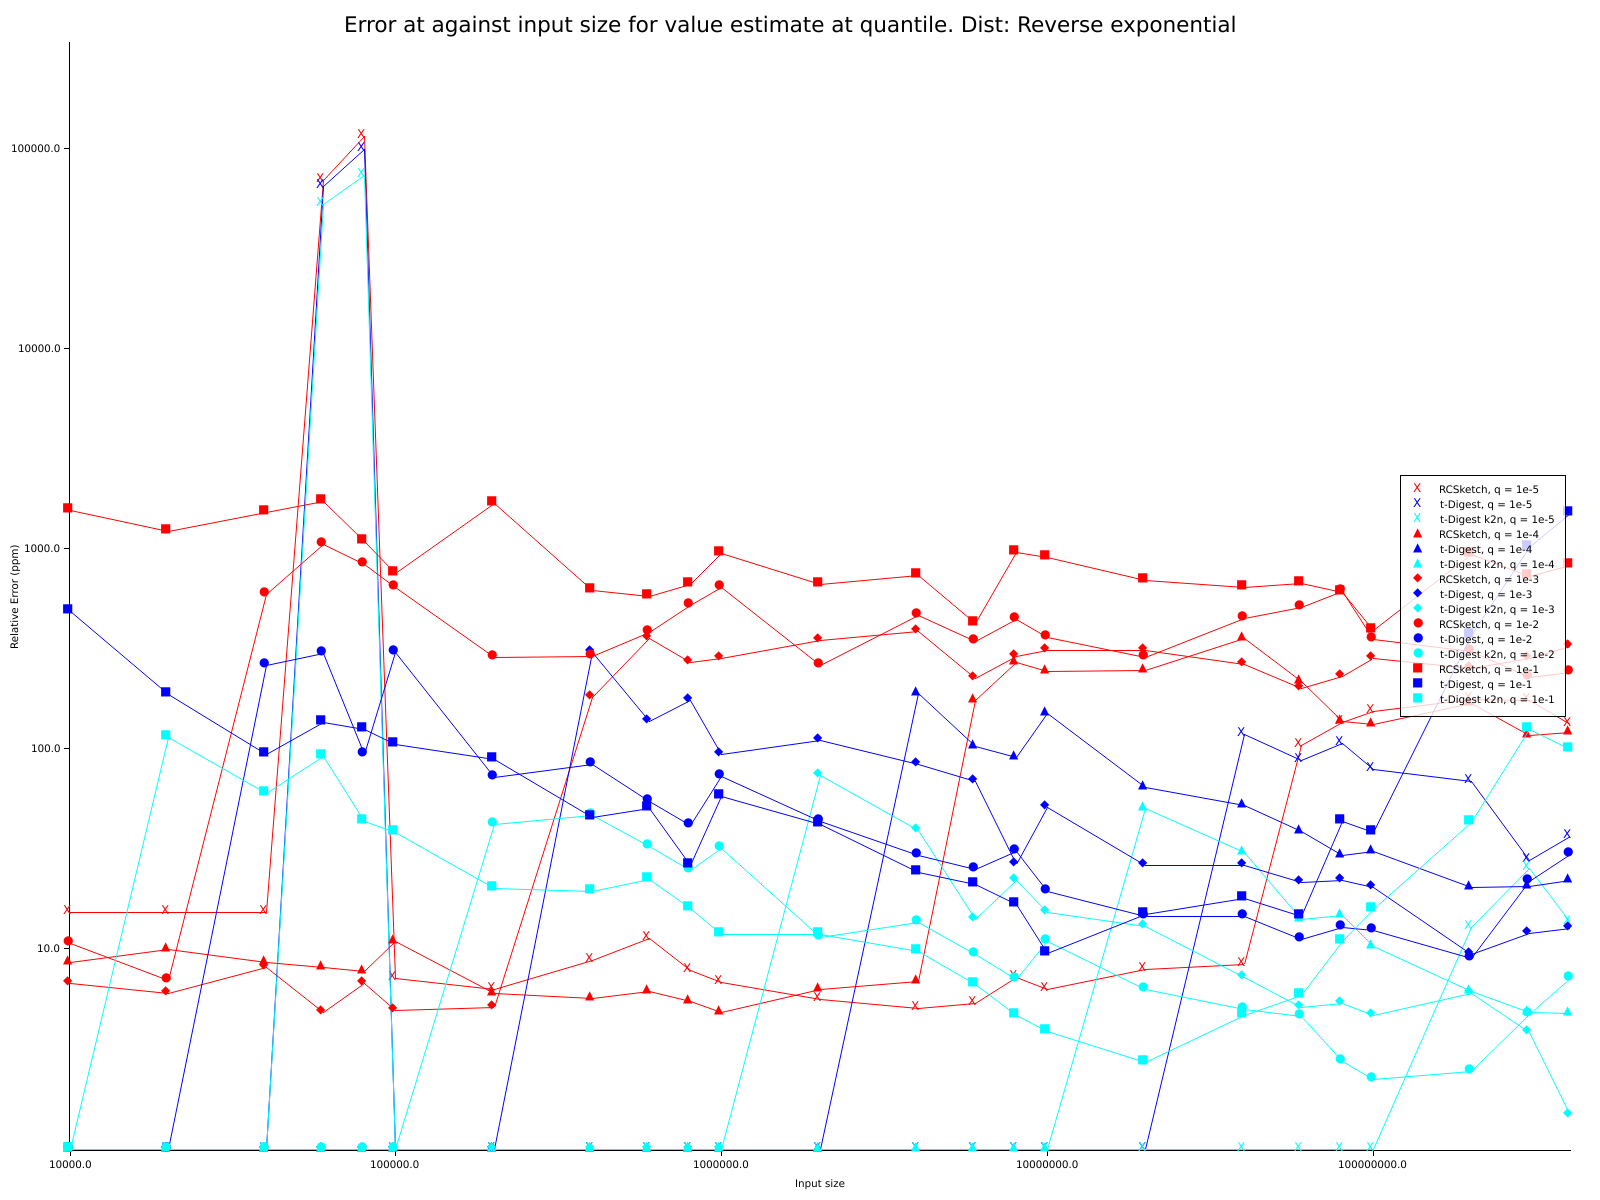
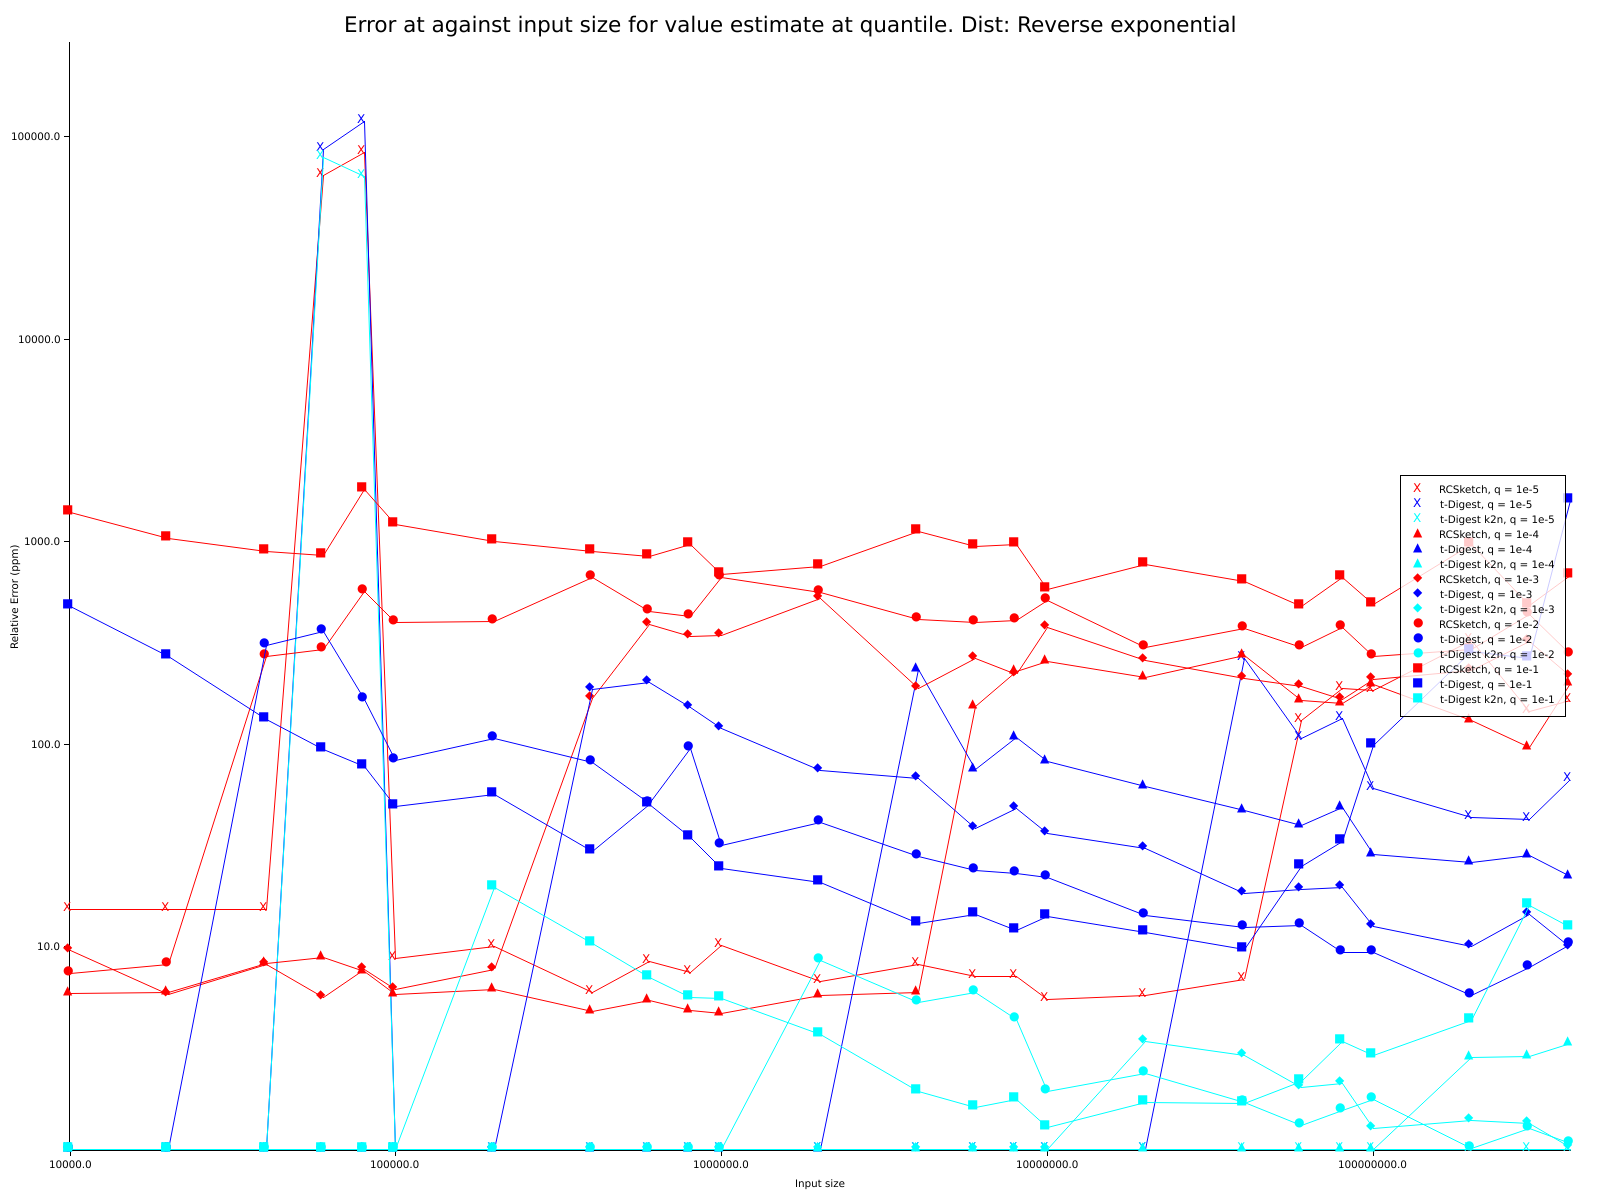
Test modified k2n

diff --git a/src/t_digest/scale_functions.rs b/src/t_digest/scale_functions.rs
@@ -55,7 +55,7 @@ pub fn k2n<F>(quantile: F, comp_factor: F, n: F) -> F
 where
     F: Float,
 {
-    let mod_comp_factor = comp_factor * n.log10();
+    let mod_comp_factor = comp_factor * n.log10().powf(F::from(2.0).unwrap());
     (mod_comp_factor
         / (F::from(4.0).unwrap() * (n / mod_comp_factor).log10() + F::from(24.0).unwrap()))
         * (quantile / (F::from(1.0).unwrap() - quantile)).log10()
@@ -65,7 +65,7 @@ pub fn inv_k2n<F>(scale: F, comp_factor: F, n: F) -> F
 where
     F: Float,
 {
-    let mod_comp_factor = comp_factor * n.log10();
+    let mod_comp_factor = comp_factor * n.log10().powf(F::from(2.0).unwrap());
     let x = F::from(10.0).unwrap().powf(
         (scale * (F::from(4.0).unwrap() * (n / mod_comp_factor).log10() + F::from(24.0).unwrap()))
             / mod_comp_factor,
